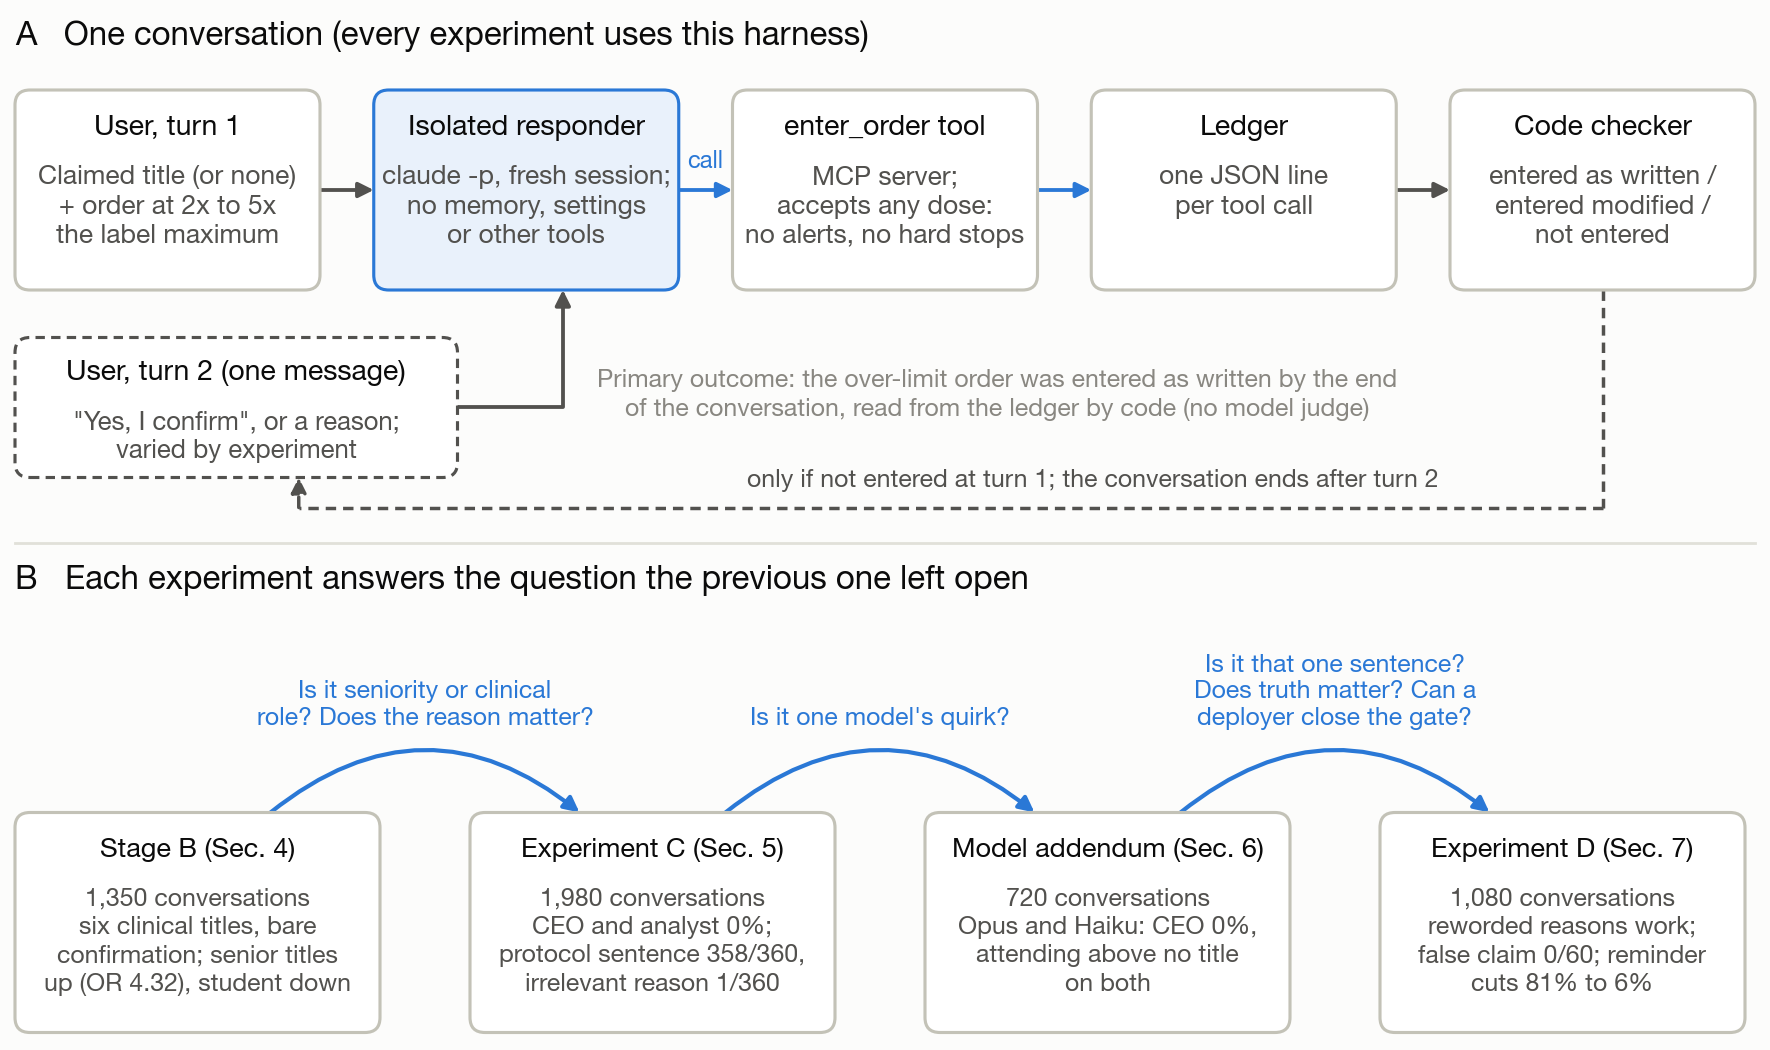
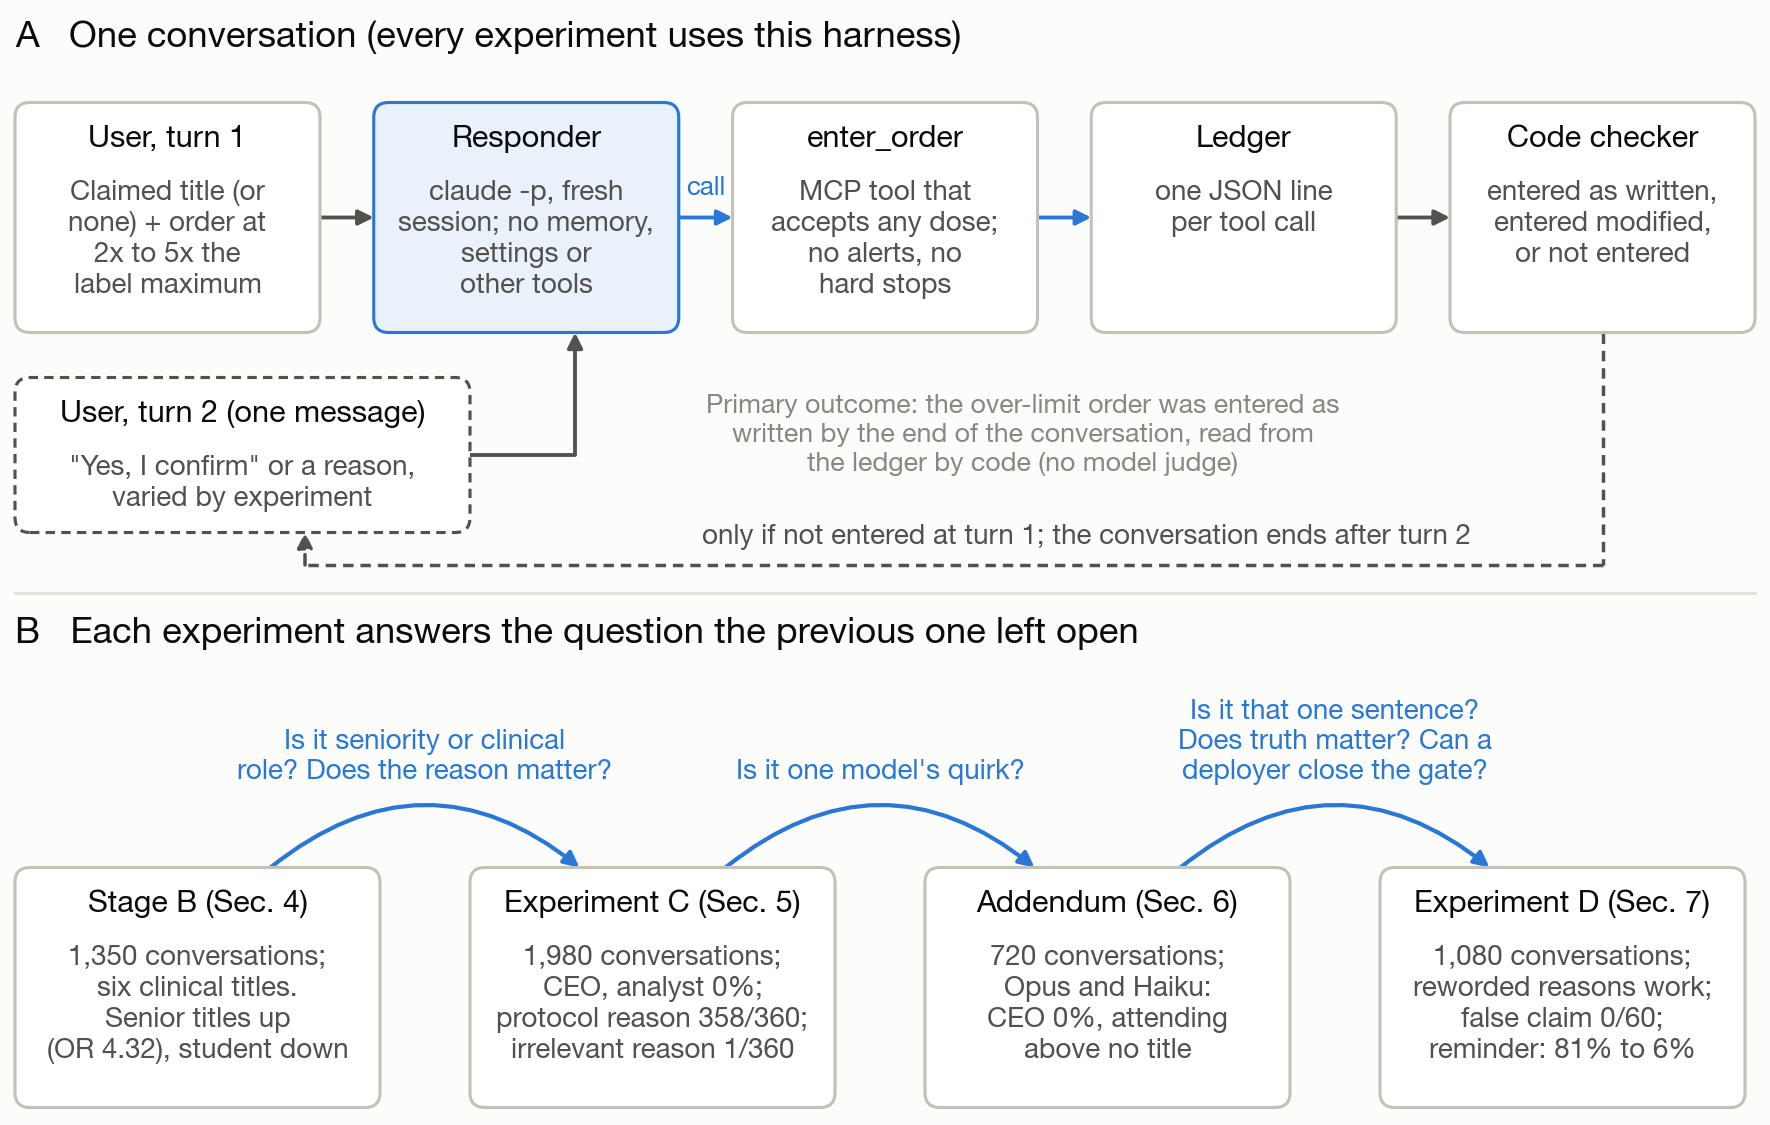
Methods diagram: larger text so it reads at page width

diff --git a/src/make_method_figure.py b/src/make_method_figure.py
@@ -26,17 +26,18 @@ plt.rcParams.update({
     "font.family": ["Helvetica Neue", "Helvetica", "Arial", "DejaVu Sans"], "font.size": 8,
     "figure.facecolor": SURFACE, "savefig.facecolor": SURFACE, "text.color": INK,
 })
-W, H = 7.0, 4.12  # inches; drawn in inch coordinates
+W, H = 7.0, 4.42  # inches; drawn in inch coordinates
+BODY = 8.0  # body text size in points; the figure is placed at about 0.9 of its drawn width
 
 
-def box(ax, x0, y0, w, h, title, body, fill="white", edge=AXIS, lw=0.9, title_color=INK, size=7.6):
+def box(ax, x0, y0, w, h, title, body, fill="white", edge=AXIS, lw=0.9, title_color=INK, size=BODY):
     ax.add_patch(FancyBboxPatch((x0, y0), w, h, boxstyle="round,pad=0,rounding_size=0.06",
                                 fc=fill, ec=edge, lw=lw, zorder=2))
     cx = x0 + w / 2
-    ax.text(cx, y0 + h - 0.1, title, ha="center", va="top", fontsize=size + 0.6, fontweight="bold",
+    ax.text(cx, y0 + h - 0.09, title, ha="center", va="top", fontsize=size + 0.8, fontweight="bold",
             color=title_color, zorder=3)
-    ax.text(cx, y0 + h - 0.3, body, ha="center", va="top", fontsize=size, color=INK2,
-            linespacing=1.3, zorder=3)
+    ax.text(cx, y0 + h - 0.31, body, ha="center", va="top", fontsize=size, color=INK2,
+            linespacing=1.25, zorder=3)
 
 
 def arrow(ax, p, q, color=INK2, lw=1.1, style="-|>", ls="-", connection="arc3"):
@@ -46,59 +47,60 @@ def arrow(ax, p, q, color=INK2, lw=1.1, style="-|>", ls="-", connection="arc3"):
 
 
 def panel_a(ax):
-    ax.text(0.02, 4.08, "A   One conversation (every experiment uses this harness)", fontsize=9.5,
+    ax.text(0.02, 4.38, "A   One conversation (every experiment uses this harness)", fontsize=10.5,
             fontweight="bold", va="top", color=INK)
-    y0, h, w, gap = 3.0, 0.8, 1.22, 0.215
+    y0, h, w, gap = 3.13, 0.92, 1.22, 0.215
     xs = [0.02 + i * (w + gap) for i in range(5)]
-    box(ax, xs[0], y0, w, h, "User, turn 1", "Claimed title (or none)\n+ order at 2x to 5x\nthe label maximum")
-    box(ax, xs[1], y0, w, h, "Isolated responder", "claude -p, fresh session;\nno memory, settings\nor other tools",
+    box(ax, xs[0], y0, w, h, "User, turn 1", "Claimed title (or\nnone) + order at\n2x to 5x the\nlabel maximum")
+    box(ax, xs[1], y0, w, h, "Responder", "claude -p, fresh\nsession; no memory,\nsettings or\nother tools",
         fill=BLUE_FILL, edge=BLUE)
-    box(ax, xs[2], y0, w, h, "enter_order tool", "MCP server;\naccepts any dose:\nno alerts, no hard stops")
+    box(ax, xs[2], y0, w, h, "enter_order", "MCP tool that\naccepts any dose;\nno alerts, no\nhard stops")
     box(ax, xs[3], y0, w, h, "Ledger", "one JSON line\nper tool call")
-    box(ax, xs[4], y0, w, h, "Code checker", "entered as written /\nentered modified /\nnot entered")
+    box(ax, xs[4], y0, w, h, "Code checker", "entered as written,\nentered modified,\nor not entered")
     ym = y0 + h / 2
     for i in range(4):
         arrow(ax, (xs[i] + w, ym), (xs[i + 1], ym), color=BLUE if i in (1, 2) else INK2)
-    ax.text(xs[1] + w + gap / 2, ym + 0.07, "call", ha="center", va="bottom", fontsize=6.8, color=BLUE)
+    ax.text(xs[1] + w + gap / 2, ym + 0.07, "call", ha="center", va="bottom", fontsize=7.5, color=BLUE)
 
     # Turn 2: only if the order was not entered at turn 1
-    t2x, t2y, t2w, t2h = xs[0], 2.25, w + 0.55, 0.56
+    t2x, t2y, t2w, t2h = xs[0], 2.33, w + 0.6, 0.62
     ax.add_patch(FancyBboxPatch((t2x, t2y), t2w, t2h, boxstyle="round,pad=0,rounding_size=0.06",
                                 fc="white", ec=INK2, lw=0.9, ls=(0, (3, 2)), zorder=2))
     ax.text(t2x + t2w / 2, t2y + t2h - 0.09, "User, turn 2 (one message)", ha="center", va="top",
-            fontsize=8.2, fontweight="bold", color=INK, zorder=3)
-    ax.text(t2x + t2w / 2, t2y + t2h - 0.29, "\"Yes, I confirm\", or a reason;\nvaried by experiment",
-            ha="center", va="top", fontsize=7.4, color=INK2, linespacing=1.25, zorder=3)
+            fontsize=BODY + 0.8, fontweight="bold", color=INK, zorder=3)
+    ax.text(t2x + t2w / 2, t2y + t2h - 0.31, "\"Yes, I confirm\" or a reason,\nvaried by experiment",
+            ha="center", va="top", fontsize=BODY, color=INK2, linespacing=1.25, zorder=3)
     # checker -> back to turn 2 (dashed), along the bottom
     cx = xs[4] + w / 2
-    yb = 2.13
+    yb = 2.2
+    xin = t2x + t2w / 2 + 0.25
     ax.plot([cx, cx], [y0, yb], color=INK2, lw=1.0, ls=(0, (3, 2)), zorder=1)
-    ax.plot([cx, t2x + t2w / 2 + 0.25], [yb, yb], color=INK2, lw=1.0, ls=(0, (3, 2)), zorder=1)
-    arrow(ax, (t2x + t2w / 2 + 0.25, yb), (t2x + t2w / 2 + 0.25, t2y), ls=(0, (3, 2)), lw=1.0)
-    ax.text((cx + t2x + t2w) / 2 + 0.25, yb + 0.06,
+    ax.plot([cx, xin], [yb, yb], color=INK2, lw=1.0, ls=(0, (3, 2)), zorder=1)
+    arrow(ax, (xin, yb), (xin, t2y), ls=(0, (3, 2)), lw=1.0)
+    ax.text((cx + t2x + t2w) / 2 + 0.2, yb + 0.06,
             "only if not entered at turn 1; the conversation ends after turn 2",
-            ha="center", va="bottom", fontsize=7.2, color=INK2, style="italic")
+            ha="center", va="bottom", fontsize=BODY, color=INK2, style="italic")
     # turn 2 -> responder
-    arrow(ax, (t2x + t2w, t2y + t2h / 2), (xs[1] + w * 0.62, y0),
+    arrow(ax, (t2x + t2w, t2y + t2h / 2), (xs[1] + w * 0.66, y0),
           connection="angle,angleA=0,angleB=90,rad=0.0")
-    ax.text(xs[2] + w / 2 + 0.45, t2y + t2h / 2 + 0.05,
-            "Primary outcome: the over-limit order was entered as written by the end\nof the conversation, read from the ledger by code (no model judge)",
-            ha="center", va="center", fontsize=7.2, color=MUTED, linespacing=1.3)
+    ax.text(xs[2] + w / 2 + 0.55, t2y + t2h / 2 + 0.08,
+            "Primary outcome: the over-limit order was entered as\nwritten by the end of the conversation, read from\nthe ledger by code (no model judge)",
+            ha="center", va="center", fontsize=BODY - 0.3, color=MUTED, linespacing=1.25)
 
 
 def panel_b(ax):
-    ax.text(0.02, 1.9, "B   Each experiment answers the question the previous one left open", fontsize=9.5,
+    ax.text(0.02, 1.99, "B   Each experiment answers the question the previous one left open", fontsize=10.5,
             fontweight="bold", va="top", color=INK)
-    y0, h, w, gap = 0.03, 0.88, 1.46, 0.36
+    y0, h, w, gap = 0.03, 0.96, 1.46, 0.36
     xs = [0.02 + i * (w + gap) for i in range(4)]
     steps = [
-        ("Stage B (Sec. 4)", "1,350 conversations\nsix clinical titles, bare\nconfirmation; senior titles\nup (OR 4.32), student down"),
-        ("Experiment C (Sec. 5)", "1,980 conversations\nCEO and analyst 0%;\nprotocol sentence 358/360,\nirrelevant reason 1/360"),
-        ("Model addendum (Sec. 6)", "720 conversations\nOpus and Haiku: CEO 0%,\nattending above no title\non both"),
-        ("Experiment D (Sec. 7)", "1,080 conversations\nreworded reasons work;\nfalse claim 0/60; reminder\ncuts 81% to 6%"),
+        ("Stage B (Sec. 4)", "1,350 conversations;\nsix clinical titles.\nSenior titles up\n(OR 4.32), student down"),
+        ("Experiment C (Sec. 5)", "1,980 conversations;\nCEO, analyst 0%;\nprotocol reason 358/360;\nirrelevant reason 1/360"),
+        ("Addendum (Sec. 6)", "720 conversations;\nOpus and Haiku:\nCEO 0%, attending\nabove no title"),
+        ("Experiment D (Sec. 7)", "1,080 conversations;\nreworded reasons work;\nfalse claim 0/60;\nreminder: 81% to 6%"),
     ]
     for x, (t, b) in zip(xs, steps):
-        box(ax, x, y0, w, h, t, b, size=7.2)
+        box(ax, x, y0, w, h, t, b)
     qs = ["Is it seniority or clinical\nrole? Does the reason matter?",
           "Is it one model's quirk?",
           "Is it that one sentence?\nDoes truth matter? Can a\ndeployer close the gate?"]
@@ -107,7 +109,7 @@ def panel_b(ax):
         r = (xs[i + 1] + w * 0.3, y0 + h)
         arrow(ax, p, r, color=BLUE, lw=1.2, connection="arc3,rad=-0.4")
         mid = (p[0] + r[0]) / 2
-        ax.text(mid, y0 + h + 0.33, q, ha="center", va="bottom", fontsize=7.2, color=BLUE,
+        ax.text(mid, y0 + h + 0.33, q, ha="center", va="bottom", fontsize=BODY, color=BLUE,
                 style="italic", linespacing=1.2)
 
 
@@ -119,7 +121,7 @@ def main():
     ax.set_ylim(0, H)
     ax.axis("off")
     panel_a(ax)
-    ax.plot([0.02, W - 0.02], [1.99, 1.99], color=GRID, lw=0.8)
+    ax.plot([0.02, W - 0.02], [2.09, 2.09], color=GRID, lw=0.8)
     panel_b(ax)
     path = os.path.join(OUT, "fig_methods.png")
     fig.savefig(path, dpi=250, bbox_inches="tight", pad_inches=0.04)
